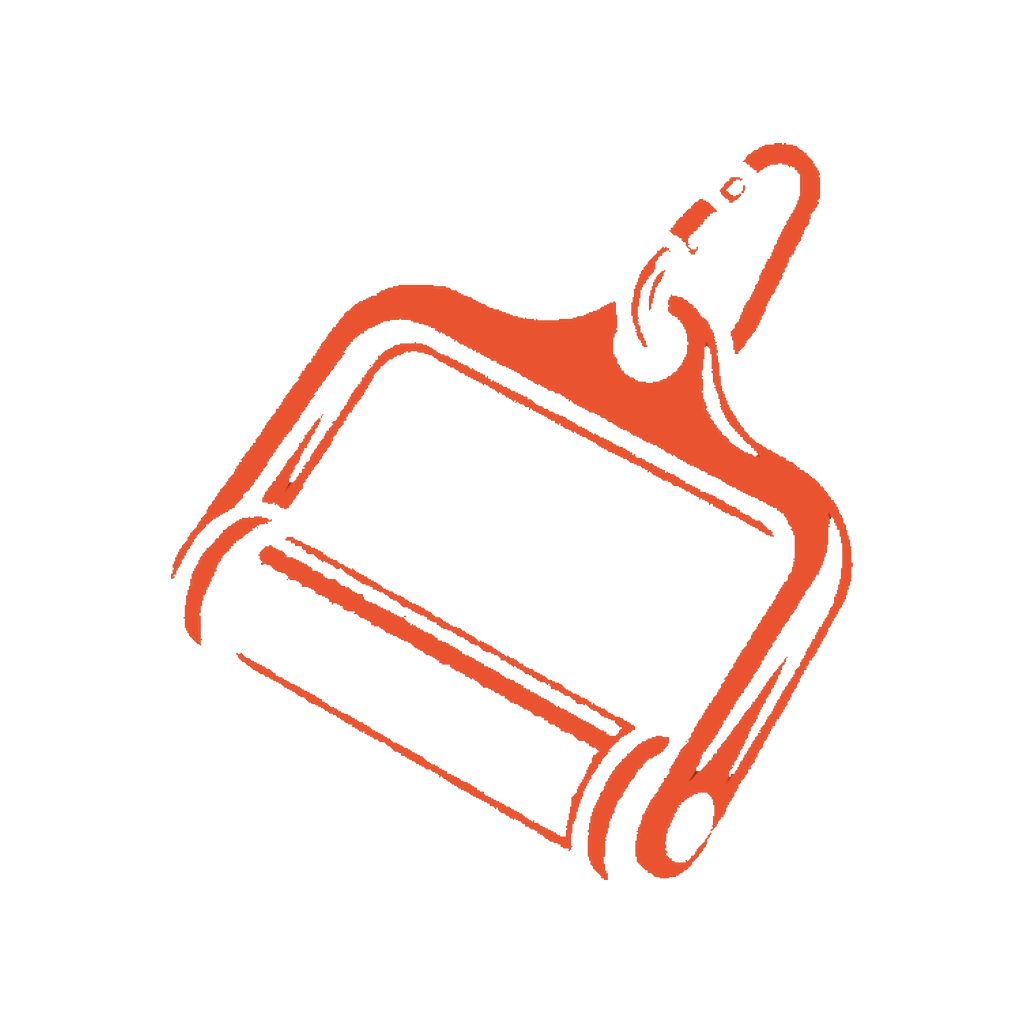
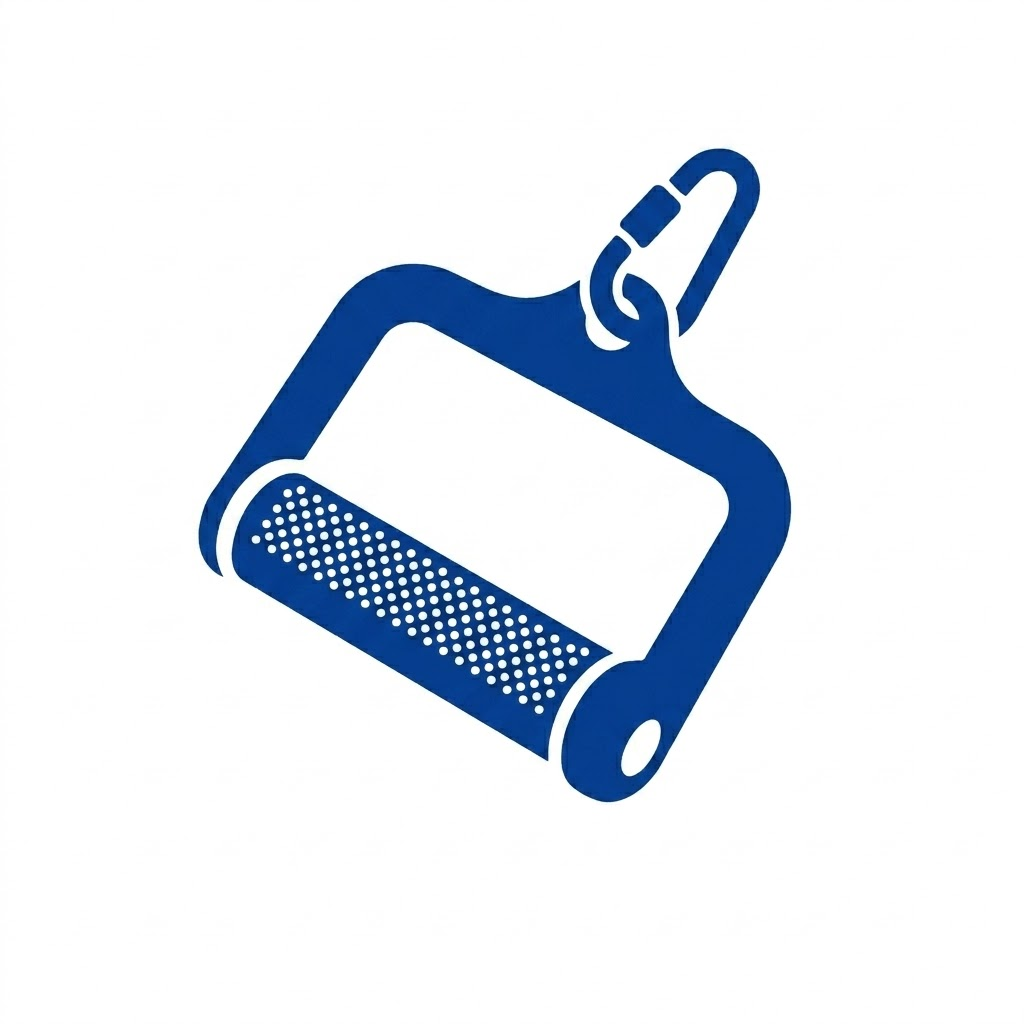
chore: rebrand from com.anomalyco to com.persoack
- Update bundleIdentifier and package name in app.config.ts
- Update EAS owner and projectId
- Change splash backgroundColor to #FF6038
- Replace app icons (icon, adaptive-icon, favicon, splash-icon)
- Migrate fdroid metadata from fitforge to cablesnap namespace
- Update maestro flow appIds
- Update scheduled-release workflow and publish-release skills

diff --git a/app.config.ts b/app.config.ts
@@ -11,7 +11,7 @@ export default ({ config }: ConfigContext): ExpoConfig => ({
   splash: {
     image: "./assets/splash-icon.png",
     resizeMode: "contain",
-    backgroundColor: "#ffffff", // eslint-disable-line no-restricted-syntax
+    backgroundColor: "#FF6038", // eslint-disable-line no-restricted-syntax
   },
   ios: {
     supportsTablet: true,
@@ -20,7 +20,7 @@ export default ({ config }: ConfigContext): ExpoConfig => ({
   android: {
     adaptiveIcon: {
       foregroundImage: "./assets/adaptive-icon.png",
-      backgroundColor: "#FFFFFF", // eslint-disable-line no-restricted-syntax
+      backgroundColor: "#FF6038", // eslint-disable-line no-restricted-syntax
     },
     package: "com.persoack.cablesnap",
     versionCode: 5,
@@ -63,9 +63,10 @@ export default ({ config }: ConfigContext): ExpoConfig => ({
       },
     ],
   ],
+  owner: "alankyshum",
   extra: {
     eas: {
-      projectId: "f15d9aef-342e-4a5d-9007-4f98eff3ba23",
+      projectId: "24dc5f10-9a21-4336-bac0-6334a5f6b82b",
     },
     stravaClientId: "227474",
   },
